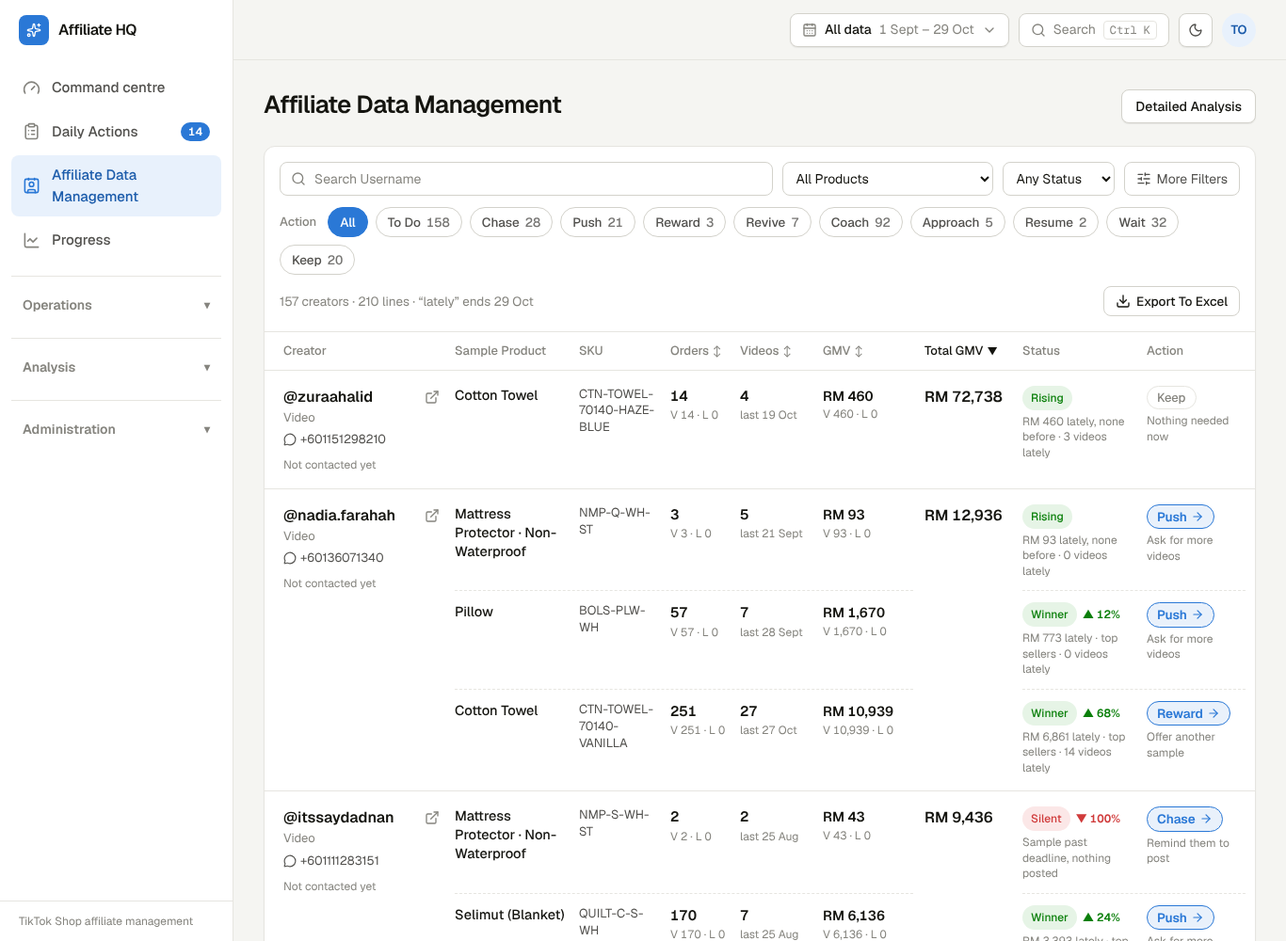
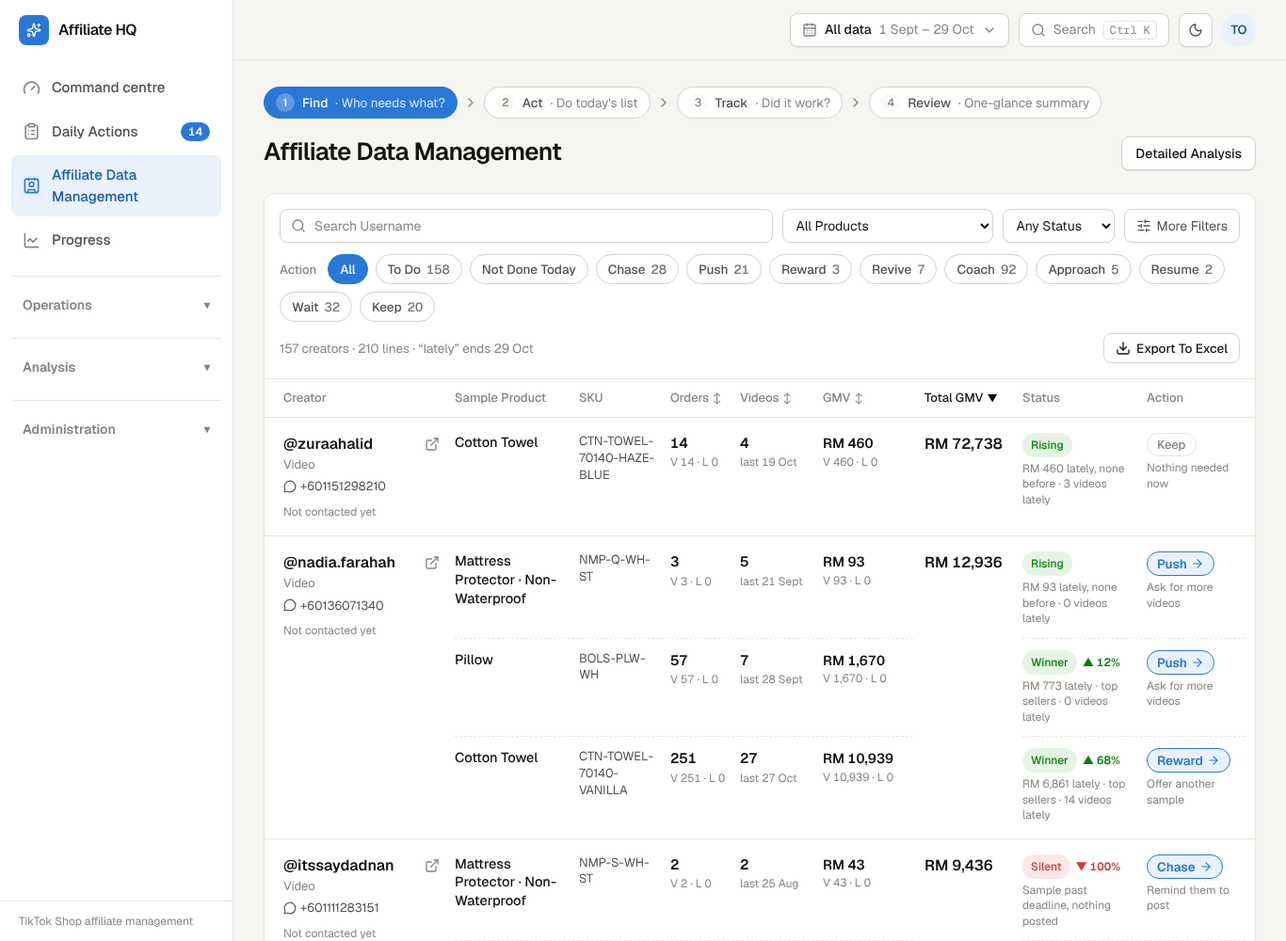
Work group flow: shared Find/Act/Track/Review step bar, Progress opens with three answers, Command centre is affiliate-only with a summary row, simpler Daily Actions row, Not Done Today filter
Claude-Session: https://claude.ai/code/session_01L6SQd9S1HK5RVe12JHKehy

diff --git a/src/app/(app)/command/page.tsx b/src/app/(app)/command/page.tsx
@@ -8,34 +8,44 @@ import { Gauge } from "@/components/viz/gauge";
 import { Funnel } from "@/components/viz/funnel";
 import { Histogram } from "@/components/viz/histogram";
 import { Section } from "@/components/viz/section";
-import { StatTile } from "@/components/viz/stat-tile";
-import { Sparkline } from "@/components/viz/sparkline";
-import { ComboChart } from "@/components/viz/combo-chart";
-import { ForecastChart, type ForecastPoint } from "@/components/viz/forecast-chart";
 import { getAffiliateDirectory, STATUS_ORDER, ACTION_ORDER } from "@/lib/workflow/directory";
-import { Badge, PageHeader } from "@/components/ui/primitives";
+import { Badge } from "@/components/ui/primitives";
+import { WorkHeader } from "@/components/work/work-header";
+import { rows } from "@/lib/analytics/sql";
+import { sql } from "drizzle-orm";
 import { cn } from "@/lib/utils";
 
 export const metadata: Metadata = { title: "Command centre" };
 
 export default async function CommandPage() {
   await requireUser("admin");
-  const [d, dir] = await Promise.all([getCommand(), getAffiliateDirectory({ samples: "with", page: 1, size: 1 })]);
+  const [d, dir, [doneRow]] = await Promise.all([
+    getCommand(),
+    getAffiliateDirectory({ samples: "with", page: 1, size: 1 }),
+    rows<{ n: number }>(sql`select count(*)::int as n from staff_events where reverted_at is null and kind in ('contacted', 'promised', 'needs_help') and (at at time zone 'Asia/Kuala_Lumpur')::date = (now() at time zone 'Asia/Kuala_Lumpur')::date`),
+  ]);
+  const atRisk = dir.statusCounts.Slipping + dir.statusCounts.Silent;
   const rel = d.progress.relationships;
-  const o = d.orders;
   const gaugeTone = (v: number | null, good: number, ok: number) => (v == null ? "brand" : v >= good ? "good" : v >= ok ? "warn" : "critical") as "good" | "warn" | "critical" | "brand";
-  const cancelDelta = o.totals.cancelPct != null && o.previous.cancelPct ? ((o.totals.cancelPct - o.previous.cancelPct) / o.previous.cancelPct) * 100 : null;
-  const fc = d.demand.total.forecast;
-  const forecastData: ForecastPoint[] = [
-    ...d.demand.weeks.map((w, i) => ({ label: fmtDayLabel(w), actual: d.demand.total.weekly[i] })),
-    ...(fc ? fc.points.map((p, i) => ({ label: `+${i + 1}w`, forecast: Math.round(p.value), band: [Math.round(p.low), Math.round(p.high)] as [number, number] })) : []),
-  ];
-  if (fc && forecastData.length > fc.points.length) { const last = d.demand.weeks.length - 1; forecastData[last] = { ...forecastData[last], forecast: forecastData[last].actual }; }
-  const unusual = o.flags.slice(-3);
 
   return (
     <div className="space-y-6">
-      <PageHeader title="Command centre" description={`${fmtDayLabel(d.today)} · everything that needs your attention, from the records`} />
+      <WorkHeader current="review" title="Command centre" isOwner purpose={`${fmtDayLabel(d.today)} · The one-glance summary. Every number opens the screen behind it.`} />
+
+      <div className="grid grid-cols-2 gap-3 lg:grid-cols-4" aria-label="Summary">
+        {[
+          { label: "Lines to act on", n: dir.actionCounts.todo, hint: "open in the table", href: "/affiliates?action=todo", tone: "text-ink" },
+          { label: "Due & overdue", n: d.work.due, hint: "open Daily Actions", href: "/today?view=due", tone: d.work.due > 0 ? "text-critical" : "text-ink" },
+          { label: "Done today", n: doneRow?.n ?? 0, hint: "actions staff recorded", href: "/today?view=done", tone: "text-good" },
+          { label: "Silent or slipping", n: atRisk, hint: "creators losing momentum", href: "/affiliates?status=Slipping", tone: atRisk > 0 ? "text-warn" : "text-ink" },
+        ].map((t) => (
+          <Link key={t.label} href={t.href} className="rounded-xl border border-line bg-surface px-4 py-3 hover:bg-surface-2">
+            <p className="text-[13px] font-medium text-ink-3">{t.label}</p>
+            <p className={cn("tnum text-[28px] leading-tight font-semibold", t.tone)}>{t.n}</p>
+            <p className="text-[12.5px] text-ink-3">{t.hint}</p>
+          </Link>
+        ))}
+      </div>
 
       {/* data health */}
       <div className="flex flex-wrap gap-2.5" aria-label="Data freshness">
@@ -124,36 +134,11 @@ export default async function CommandPage() {
         </Section>
       </div>
 
-      {/* orders */}
-      <Section title="Order health" hint={o.start ? `${fmtDayLabel(o.start)} – ${fmtDayLabel(o.end!)} · orders per day with the cancellation rate` : "No shop orders loaded"} href="/order-health" linkLabel="Order health">
-        <div className="grid min-w-0 grid-cols-[minmax(0,1fr)] gap-5 lg:grid-cols-[minmax(0,1fr)_260px]">
-          <ComboChart data={o.days.map((x) => ({ label: fmtDayLabel(x.day), bars: x.orders, line: x.ratePct == null ? null : Math.round(x.ratePct * 10) / 10, flag: o.flags.some((f) => f.day === x.day) }))} barLabel="Orders" lineLabel="Cancelled %" height={240} />
-          <div className="grid grid-cols-2 gap-3 lg:grid-cols-1">
-            <StatTile label="Cancelled" value={o.totals.cancelPct == null ? "–" : `${o.totals.cancelPct.toFixed(1)}%`} delta={cancelDelta} goodWhenUp={false} sub={cancelDelta == null ? "of orders in this period" : "vs the 90 days before"} href="/order-health" />
-            <StatTile label="Returned / refunded" value={o.totals.returnPct == null ? "–" : `${o.totals.returnPct.toFixed(1)}%`} sub={`${o.totals.returned} orders`} href="/order-health" />
-          </div>
-        </div>
-        {unusual.length > 0 && (
-          <p className="mt-4 flex flex-wrap items-center gap-2 text-[14px] text-ink-2"><span className="font-medium text-ink">Unusual days:</span>{unusual.map((f) => <Badge key={f.day} tone="critical">{fmtDayLabel(f.day)} · {f.value.toFixed(0)}% cancelled (usually {f.expected.toFixed(0)}%)</Badge>)}</p>
-        )}
-      </Section>
-
-      {/* demand */}
-      <Section title="Demand outlook" hint="Units sold per week, with the next 4 weeks forecast" href="/demand" linkLabel="Demand planning">
-        {d.demand.weeks.length < 2 ? <p className="text-[14.5px] text-ink-3">{d.demand.note}</p> : (
-          <div className="grid min-w-0 grid-cols-[minmax(0,1fr)] gap-5 lg:grid-cols-[minmax(0,1fr)_300px]">
-            <ForecastChart data={forecastData} height={240} />
-            <div className="space-y-3">
-              <StatTile label="Needed next 4 weeks" value={d.demand.total.next4 == null ? "–" : `${d.demand.total.next4} units`} delta={d.demand.total.trendPct} sub={d.demand.total.next4 == null ? (d.demand.note ?? "Not enough history") : "all items, bundles broken into parts"} />
-              <ul className="space-y-2">
-                {d.demand.items.slice(0, 4).map((i) => (
-                  <li key={i.sku} className="flex items-center gap-3"><span className="min-w-0 flex-1 truncate text-[14px] text-ink" title={i.name}>{i.name}</span><span className="w-20"><Sparkline values={i.weekly} tone={i.trendPct != null && i.trendPct < -10 ? "critical" : "good"} /></span><span className="tnum w-12 text-right text-[13.5px] font-semibold">{i.sold4}</span></li>
-                ))}
-              </ul>
-            </div>
-          </div>
-        )}
-      </Section>
+      <p className="flex flex-wrap items-center gap-x-4 gap-y-1 text-[14px] text-ink-3">
+        <span className="font-medium text-ink-2">Shop operations</span>
+        <Link href="/order-health" className="text-brand hover:underline">Order health</Link>
+        <Link href="/demand" className="text-brand hover:underline">Demand planning</Link>
+      </p>
     </div>
   );
 }

diff --git a/src/app/(app)/progress/page.tsx b/src/app/(app)/progress/page.tsx
@@ -8,7 +8,8 @@ import { getActionResults } from "@/lib/workflow/results";
 import { RELATIONSHIP, type Relationship } from "@/lib/workflow/relationship";
 import { fmtDayLabel } from "@/lib/time";
 import { one, type SP } from "@/lib/url";
-import { Badge, PageHeader } from "@/components/ui/primitives";
+import { Badge } from "@/components/ui/primitives";
+import { WorkHeader } from "@/components/work/work-header";
 import { fmtRM, cn } from "@/lib/utils";
 
 export const metadata: Metadata = { title: "Progress" };
@@ -82,9 +83,11 @@ export default async function ProgressPage({ searchParams }: PageProps<"/progres
 
   return (
     <div className="space-y-6">
-      <PageHeader
+      <WorkHeader
+        current="track"
         title="Progress"
-        description={`${fmtDayLabel(p.window.start)} – ${fmtDayLabel(p.window.end)} · ${days} days · Malaysia time`}
+        isOwner
+        purpose={`${fmtDayLabel(p.window.start)} – ${fmtDayLabel(p.window.end)} · ${days} days · Are staff working, did it help sales, and what needs you?`}
         actions={
           <div role="group" aria-label="Period" className="inline-flex overflow-hidden rounded-lg border border-line-strong text-[14px] font-medium">
             {PROGRESS_RANGES.map((d) => (
@@ -94,7 +97,28 @@ export default async function ProgressPage({ searchParams }: PageProps<"/progres
         }
       />
 
-      <Frame title="Needs your decision" tag="Unresolved exceptions" accent="border-l-warn">
+      <div className="grid gap-3 lg:grid-cols-3" data-testid="progress-answers" aria-label="Three answers">
+        <a href="#staff" className="rounded-xl border border-line bg-surface p-4 hover:bg-surface-2">
+          <p className="text-[13px] font-medium text-ink-3">1 · Are staff working?</p>
+          <p className="tnum mt-1 text-[28px] leading-tight font-semibold text-ink">{p.staff.byPerson.reduce((a, b) => a + b.contacts, 0)} <span className="text-[15px] font-normal text-ink-3">actions</span></p>
+          <p className="text-[13px] text-ink-3">{rate == null ? "No follow-ups judged yet" : `${rate}% of follow-ups on time`} · {p.staff.byPerson.length} {p.staff.byPerson.length === 1 ? "person" : "people"}</p>
+        </a>
+        <a href="#results" className="rounded-xl border border-line bg-surface p-4 hover:bg-surface-2">
+          <p className="text-[13px] font-medium text-ink-3">2 · Did it help sales?</p>
+          {res.measured === 0 ? (
+            <><p className="mt-1 text-[20px] leading-tight font-semibold text-ink">Not measured yet</p><p className="text-[13px] text-ink-3">Needs 28 days after first contact{res.waiting > 0 ? ` · ${res.waiting} waiting` : ""}</p></>
+          ) : (
+            <><p className={cn("tnum mt-1 text-[28px] leading-tight font-semibold", resChange != null && resChange < 0 ? "text-critical" : "text-good")}>{resChange == null ? "–" : `${resChange >= 0 ? "▲" : "▼"} ${Math.abs(resChange)}%`}</p><p className="text-[13px] text-ink-3">GMV after vs before · {res.posted} of {res.measured} posted</p></>
+          )}
+        </a>
+        <a href="#decisions" className="rounded-xl border border-line bg-surface p-4 hover:bg-surface-2">
+          <p className="text-[13px] font-medium text-ink-3">3 · What needs me?</p>
+          <p className={cn("tnum mt-1 text-[28px] leading-tight font-semibold", decisions.length > 0 ? "text-warn" : "text-ink")}>{decisions.reduce((a, d) => a + d.count, 0)} <span className="text-[15px] font-normal text-ink-3">to decide</span></p>
+          <p className="text-[13px] text-ink-3">{decisions.length === 0 ? "Nothing right now" : `${decisions.length} kind${decisions.length === 1 ? "" : "s"} of decision`}</p>
+        </a>
+      </div>
+
+      <div id="decisions" className="scroll-mt-24" /><Frame title="Needs your decision" tag="Unresolved exceptions" accent="border-l-warn">
         {decisions.length === 0 ? (
           <p className="text-[14.5px] text-ink-2">Nothing needs a decision right now.</p>
         ) : (
@@ -112,7 +136,7 @@ export default async function ProgressPage({ searchParams }: PageProps<"/progres
         )}
       </Frame>
 
-      <Frame title="Staff performance" tag="Who did what – staff-confirmed" accent="border-l-brand">
+      <div id="staff" className="scroll-mt-24" /><Frame title="Staff performance" tag="Who did what – staff-confirmed" accent="border-l-brand">
         {p.staff.byPerson.length === 0 ? (
           <p className="text-[14.5px] text-ink-2" data-testid="staff-performance">No staff actions recorded in this period yet.</p>
         ) : (
@@ -126,7 +150,7 @@ export default async function ProgressPage({ searchParams }: PageProps<"/progres
         <p className="text-[13px] text-ink-3">Opening WhatsApp or copying a message is never counted – only the buttons staff press. “Posted after” counts creators with a video in the 28 days after their first contact.</p>
       </Frame>
 
-      <Frame title="Results after action" tag="Sales 28 days after first contact, against the 28 days before – context, not proof" accent="border-l-good">
+      <div id="results" className="scroll-mt-24" /><Frame title="Results after action" tag="Sales 28 days after first contact, against the 28 days before – context, not proof" accent="border-l-good">
         {res.measured === 0 ? (
           <p className="text-[14.5px] text-ink-2" data-testid="results-empty">Not enough history yet. A creator is measured once 28 days have passed since staff first contacted them{res.waiting > 0 ? ` (${res.waiting} contacted too recently)` : ""}. Keep recording actions and this fills in.</p>
         ) : (

diff --git a/src/components/today/today-list.tsx b/src/components/today/today-list.tsx
@@ -187,12 +187,13 @@ function Row({
 
   return (
     <article className="rounded-xl border border-line bg-surface" data-testid={`today-${it.username}`}>
-      <div className="grid items-center gap-x-4 gap-y-3 px-4 py-3.5 md:grid-cols-[minmax(170px,1.1fr)_minmax(220px,2fr)_auto_auto_auto]">
+      <div className="grid items-center gap-x-4 gap-y-3 px-4 py-3.5 md:grid-cols-[minmax(170px,1.1fr)_minmax(220px,2fr)_auto_auto]">
         {/* creator */}
         <div className="flex min-w-0 items-center gap-3">
           {canAct && !it.held ? <input type="checkbox" aria-label={`Select ${it.username}`} checked={selected} onChange={onToggle} className="size-4 shrink-0" /> : <span className="w-4 shrink-0" />}
           <div className="min-w-0">
             <button type="button" onClick={() => panelApi.open(it.username)} className="block max-w-full truncate text-left text-[16px] font-semibold text-ink hover:underline" title="Open details">@{it.username}</button>
+            <a href={`/affiliates?samples=all&q=${encodeURIComponent(it.username)}`} className="text-[12.5px] text-brand hover:underline" data-testid="open-in-table">Open in table →</a>
             <p className="flex items-center gap-1.5 text-[13.5px] text-ink-3" title={it.relationship.hint}><span className={cn("size-2 rounded-full", DOT[it.relationship.tone])} />{it.relationship.label}</p>
             {(it.creatorType || it.gmvLabel) && <p className="text-[12.5px] text-ink-3">{[it.creatorType, it.gmvLabel && `${it.gmvLabel} total`].filter(Boolean).join(" · ")}</p>}
           </div>
@@ -218,12 +219,10 @@ function Row({
           {it.lastAction && <p className="mt-0.5 text-[13px] text-ink-3" data-testid="last-action">Last action: {it.lastAction}</p>}
           {it.suggestPause && <p className="mt-1 text-[13.5px] font-medium text-warn">Review or pause? {it.attempts} recorded contacts, no promise or new content.</p>}
         </div>
-        {/* deadline */}
-        <div className="md:w-32 md:text-right">{it.deadline && <Badge tone={it.deadline.tone === "critical" ? "critical" : it.deadline.tone === "warn" ? "serious" : "neutral"}>{it.deadline.label}</Badge>}</div>
-        {/* completion */}
-        <div className="tnum text-[14px] md:w-14 md:text-center" title={focusO ? `${focusO.label}: ${focusO.done} of ${focusO.needed} pieces` : undefined}>
-          {focusO ? <span className={cn("font-semibold", focusO.lateDays != null ? "text-critical" : "text-ink")}>{focusO.done}/{focusO.needed}</span> : <span className="text-ink-3">–</span>}
-          {it.obligations.length > 1 && <span className="block text-[12px] font-normal text-ink-3">+{it.obligations.length - 1} more</span>}
+        {/* when + progress */}
+        <div className="flex flex-col gap-1 md:w-36 md:items-end md:text-right">
+          {it.deadline && <Badge tone={it.deadline.tone === "critical" ? "critical" : it.deadline.tone === "warn" ? "serious" : "neutral"}>{it.deadline.label}</Badge>}
+          {focusO && <span className={cn("tnum text-[13px]", focusO.lateDays != null ? "font-semibold text-critical" : "text-ink-3")} title={`${focusO.label}: ${focusO.done} of ${focusO.needed} pieces`}>{focusO.done}/{focusO.needed} posted{it.obligations.length > 1 ? ` · +${it.obligations.length - 1} more` : ""}</span>}
         </div>
         {/* controls */}
         {canAct && (

diff --git a/src/app/(app)/affiliates/page.tsx b/src/app/(app)/affiliates/page.tsx
@@ -2,13 +2,14 @@ import type { Metadata } from "next";
 import { Fragment } from "react";
 import Link from "next/link";
 import { ExternalLink, MessageCircle } from "lucide-react";
-import { requireUser } from "@/lib/auth";
+import { can, requireUser } from "@/lib/auth";
+import { WorkHeader } from "@/components/work/work-header";
 import { ACTION_ORDER, getAffiliateDirectory, STATUS_ORDER, type DirLine, type DirRow } from "@/lib/workflow/directory";
 import { parseDirectoryParams } from "@/lib/workflow/directory-params";
 import { ACTION_HELP, STATUS_HELP, type CreatorStatus } from "@/lib/affiliates/status";
 import { fmtDayLabel } from "@/lib/time";
 import { href, one, type SP } from "@/lib/url";
-import { Badge, buttonClasses, Card, EmptyState, PageHeader } from "@/components/ui/primitives";
+import { Badge, buttonClasses, Card, EmptyState } from "@/components/ui/primitives";
 import { sampleRange } from "@/lib/samples/range";
 import { statsOf } from "@/lib/affiliates/action-messages";
 import { Pagination } from "@/components/ui/pagination";
@@ -80,7 +81,7 @@ function CreatorBlock({ r }: { r: DirRow }) {
 }
 
 export default async function AffiliatesPage({ searchParams }: PageProps<"/affiliates">) {
-  await requireUser();
+  const user = await requireUser();
   const sp = (await searchParams) as SP;
   const raw = Object.fromEntries(Object.entries(sp).map(([k, v]) => [k, one(v)]));
   const opts = parseDirectoryParams(raw);
@@ -96,12 +97,12 @@ export default async function AffiliatesPage({ searchParams }: PageProps<"/affil
   const statsAll = (r: DirRow) => r.allLines.filter((l) => !l.noSample).map(statsOf);
   const page = opts.page ?? 1;
   const pages = Math.max(1, Math.ceil(dir.total / SIZE));
-  const values = { q: opts.q ?? "", samples: opts.samples ?? "with", product: opts.product ?? "", status: opts.status ?? "", action: opts.action ?? "", type: opts.type ?? "", wa: opts.wa ?? "", contact: opts.contact ?? "", sort: opts.sort ?? "gmv" };
+  const values = { q: opts.q ?? "", samples: opts.samples ?? "with", product: opts.product ?? "", status: opts.status ?? "", action: opts.action ?? "", type: opts.type ?? "", wa: opts.wa ?? "", contact: opts.contact ?? "", done: opts.done ?? "", sort: opts.sort ?? "gmv" };
   const pageFilters = Object.fromEntries(Object.entries(values).map(([k, v]) => [k, (k === "samples" && v === "with") || (k === "sort" && v === "gmv") ? undefined : v || undefined]));
 
   return (
     <div className="space-y-6">
-      <PageHeader title="Affiliate Data Management" actions={<Link href="/affiliates/analysis" className={buttonClasses({ variant: "secondary" })}>Detailed Analysis</Link>} />
+      <WorkHeader current="find" title="Affiliate Data Management" isOwner={can(user, "admin")} actions={<Link href="/affiliates/analysis" className={buttonClasses({ variant: "secondary" })}>Detailed Analysis</Link>} />
       <Card>
         <DirectoryFilters
           values={values}

diff --git a/src/components/work/work-header.tsx b/src/components/work/work-header.tsx
@@ -1,0 +1,50 @@
+import Link from "next/link";
+import { ChevronRight } from "lucide-react";
+import { cn } from "@/lib/utils";
+
+export type WorkStep = "find" | "act" | "track" | "review";
+
+const STEPS: { key: WorkStep; n: number; label: string; href: string; hint: string; owner?: boolean }[] = [
+  { key: "find", n: 1, label: "Find", href: "/affiliates", hint: "Who needs what?" },
+  { key: "act", n: 2, label: "Act", href: "/today", hint: "Do today's list" },
+  { key: "track", n: 3, label: "Track", href: "/progress", hint: "Did it work?", owner: true },
+  { key: "review", n: 4, label: "Review", href: "/command", hint: "One-glance summary", owner: true },
+];
+
+/**
+ * The same header on every Work screen: the four steps of the flow (Find → Act → Track → Review) with the current one marked,
+ * then the title, one line saying what this screen is for, and its actions.
+ */
+export function WorkHeader({ current, title, purpose, isOwner, actions }: { current: WorkStep; title: string; purpose?: string; isOwner: boolean; actions?: React.ReactNode }) {
+  const steps = STEPS.filter((s) => isOwner || !s.owner);
+  return (
+    <header className="mb-6 space-y-4">
+      <nav aria-label="Work flow" className="overflow-x-auto">
+        <ol className="flex min-w-max items-center gap-1.5 text-[13.5px]">
+          {steps.map((s, i) => (
+            <li key={s.key} className="flex items-center gap-1.5">
+              <Link
+                href={s.href}
+                aria-current={s.key === current ? "step" : undefined}
+                title={s.hint}
+                className={cn("inline-flex items-center gap-2 rounded-full border px-3 py-1.5 font-medium transition-colors", s.key === current ? "border-brand bg-brand text-white" : "border-line-strong bg-surface text-ink-2 hover:bg-surface-2")}
+              >
+                <span className={cn("grid size-5 place-items-center rounded-full text-[12px]", s.key === current ? "bg-white/25" : "bg-surface-2 text-ink-3")}>{s.n}</span>
+                {s.label}
+                <span className={cn("hidden font-normal sm:inline", s.key === current ? "text-white/80" : "text-ink-3")}>· {s.hint}</span>
+              </Link>
+              {i < steps.length - 1 && <ChevronRight className="size-4 text-ink-3" aria-hidden />}
+            </li>
+          ))}
+        </ol>
+      </nav>
+      <div className="flex flex-wrap items-end justify-between gap-4">
+        <div className="min-w-0">
+          <h1 className="text-[26px] font-semibold tracking-tight text-ink">{title}</h1>
+          {purpose && <p className="mt-1 max-w-3xl text-[14px] text-ink-2">{purpose}</p>}
+        </div>
+        {actions}
+      </div>
+    </header>
+  );
+}

diff --git a/src/components/affiliates/directory-filters.tsx b/src/components/affiliates/directory-filters.tsx
@@ -8,7 +8,7 @@ import { cn } from "@/lib/utils";
 import { href } from "@/lib/url";
 import { ACTION_HINT, type CreatorAction, type CreatorStatus } from "@/lib/affiliates/status";
 
-export type DirFilterValues = { q: string; samples: string; product: string; status: string; action: string; type: string; wa: string; contact: string; sort: string };
+export type DirFilterValues = { q: string; samples: string; product: string; status: string; action: string; type: string; wa: string; contact: string; done: string; sort: string };
 type Props = {
   values: DirFilterValues;
   products: { pid: string; name: string; creators: number }[];
@@ -99,6 +99,7 @@ export function DirectoryFilters({ values, products, actions, todo, statuses, sh
         <button type="button" className={chip(values.action === "todo")} aria-pressed={values.action === "todo"} onClick={() => go({ action: "todo" })} title="Product lines that need you to do something (Daily Actions counts creators, so its number is smaller)">
           To Do <span className="tnum opacity-80">{todo}</span>
         </button>
+        <button type="button" className={chip(values.done === "no")} aria-pressed={values.done === "no"} onClick={() => go({ done: values.done === "no" ? "" : "no" })} title="Hide product lines whose action was already recorded today">Not Done Today</button>
         {actions.filter((a) => a.count > 0 || values.action === a.key).map((a) => (
           <button key={a.key} type="button" className={chip(values.action === a.key)} aria-pressed={values.action === a.key} onClick={() => go({ action: values.action === a.key ? "" : a.key })} title={ACTION_HINT[a.key]}>
             {a.key} <span className="tnum opacity-80">{a.count}</span>

diff --git a/src/app/(app)/today/page.tsx b/src/app/(app)/today/page.tsx
@@ -5,8 +5,9 @@ import { can, mayEditContacts, requireUser } from "@/lib/auth";
 import { getToday, type TodayRow, type TodayView } from "@/lib/workflow/today";
 import { fmtDateTimeKL, fmtDayLabel } from "@/lib/time";
 import { one, type SP } from "@/lib/url";
+import { WorkHeader } from "@/components/work/work-header";
 import { Pagination } from "@/components/ui/pagination";
-import { Card, EmptyState, PageHeader } from "@/components/ui/primitives";
+import { Card, EmptyState } from "@/components/ui/primitives";
 import { AddCreator } from "@/components/today/add-creator";
 import { TodayList, type TodayItem } from "@/components/today/today-list";
 import { cn } from "@/lib/utils";
@@ -100,9 +101,11 @@ export default async function TodayPage({ searchParams }: PageProps<"/today">) {
 
   return (
     <div className="space-y-6">
-      <PageHeader
+      <WorkHeader
+        current="act"
         title="Daily Actions"
-        description={`${fmtDayLabel(data.today)} · Malaysia time`}
+        isOwner={can(user, "admin")}
+        purpose={`${fmtDayLabel(data.today)} · Message each creator, then record what happened. The list comes from Affiliate Data Management.`}
         actions={canAct ? <div className="flex flex-wrap items-start gap-2"><AddCreator canPhone={mayEditContacts(user)} /></div> : undefined}
       />
       <div className="grid grid-cols-2 gap-3 lg:grid-cols-4" aria-label="Today at a glance">

diff --git a/src/lib/workflow/directory.ts b/src/lib/workflow/directory.ts
@@ -60,6 +60,8 @@ export type DirOpts = {
   type?: "video" | "live" | "both" | "";
   wa?: "yes" | "no" | "";
   contact?: "never" | "recent" | "overdue" | "";
+  /** "no" = only lines whose action has not been recorded today. */
+  done?: "no" | "";
   sort?: DirSort;
   /** Period shown in the table's orders, GMV and videos (status always uses the latest 28 days). */
   range?: { start: string; end: string };
@@ -234,6 +236,7 @@ export async function getAffiliateDirectory(opts: DirOpts): Promise<Directory> {
       (opts.contact === "never" ? !a.lastContactedOn : opts.contact === "recent" ? !!a.lastContactedOn && a.lastContactedOn >= weekAgo : a.overdue));
   const lineOk = (l: DirLine, skip?: "status" | "action") =>
     (!opts.product || l.pid === opts.product) &&
+    (opts.done !== "no" || l.doneOn !== today) &&
     (skip === "status" || !opts.status || l.status === opts.status) &&
     (skip === "action" || !opts.action || (opts.action === "todo" ? NEEDS_ACTION.includes(l.action) : l.action === opts.action));
 

diff --git a/scripts/test-regressions.ts b/scripts/test-regressions.ts
@@ -609,6 +609,8 @@ async function main() {
   const pnl = await getCreatorPanel(cM, true);
   check("25c the creator panel has a Performance block: 8 weekly points, 28-day change, posting rate, last action, follow-up", pnl.performance.weeks.length === 8 && pnl.performance.gmv28 + pnl.performance.prev28 > 0 && !!pnl.performance.lastAction && /^Contacted/.test(pnl.performance.lastAction.text) && pnl.performance.contacts >= 1, JSON.stringify(pnl.performance));
 
+  const notDone = (await D({ q: cM, samples: "with", done: "no" })).rows.find((r) => r.username === cM);
+  check("27a 'Not Done Today' hides the product line whose action was recorded today and keeps the others", !notDone || !notDone.lines.some((l) => l.pid === P1));
   const cR = "zz_test_results";
   await mkCreators([cR]);
   await imp("affiliate_orders", AFF, [

diff --git a/src/lib/workflow/directory-params.ts b/src/lib/workflow/directory-params.ts
@@ -31,6 +31,7 @@ export function parseDirectoryParams(sp: Record<string, string | undefined>): Di
     type: pick(sp.type, ["video", "live", "both"] as const),
     wa: pick(sp.wa, ["yes", "no"] as const),
     contact: pick(sp.contact, ["never", "recent", "overdue"] as const),
+    done: sp.done === "no" ? "no" : "",
     sort: (SORTS.find((s) => s.key === sp.sort)?.key ?? "gmv") as DirSort,
     page: Math.max(1, Number(sp.page) || 1),
   };

diff --git a/docs/STAFF-GUIDE.md b/docs/STAFF-GUIDE.md
@@ -1,6 +1,6 @@
 # Staff guide – the daily routine
 
-Open **Daily Actions** (formerly Today's Work). Each row answers four things: **who** (name and relationship), **why now** (coloured chips and one line of evidence),
+The four Work screens follow one flow, shown as a step bar at the top of each: **1 Find** (Affiliate Data Management) → **2 Act** (Daily Actions) → **3 Track** (Progress, owner) → **4 Review** (Command centre, owner). Every number on the later screens opens the earlier screen already filtered, and every Daily Actions row has **Open in table**. Open **Daily Actions** (formerly Today's Work). Each row answers four things: **who** (name and relationship), **why now** (coloured chips and one line of evidence),
 **what to do** (the buttons) and **by when** (the deadline chip on the right). Open **Details** for the full reasons, sample timeline, last actions and the message.
 
 | Tab | What is in it |
